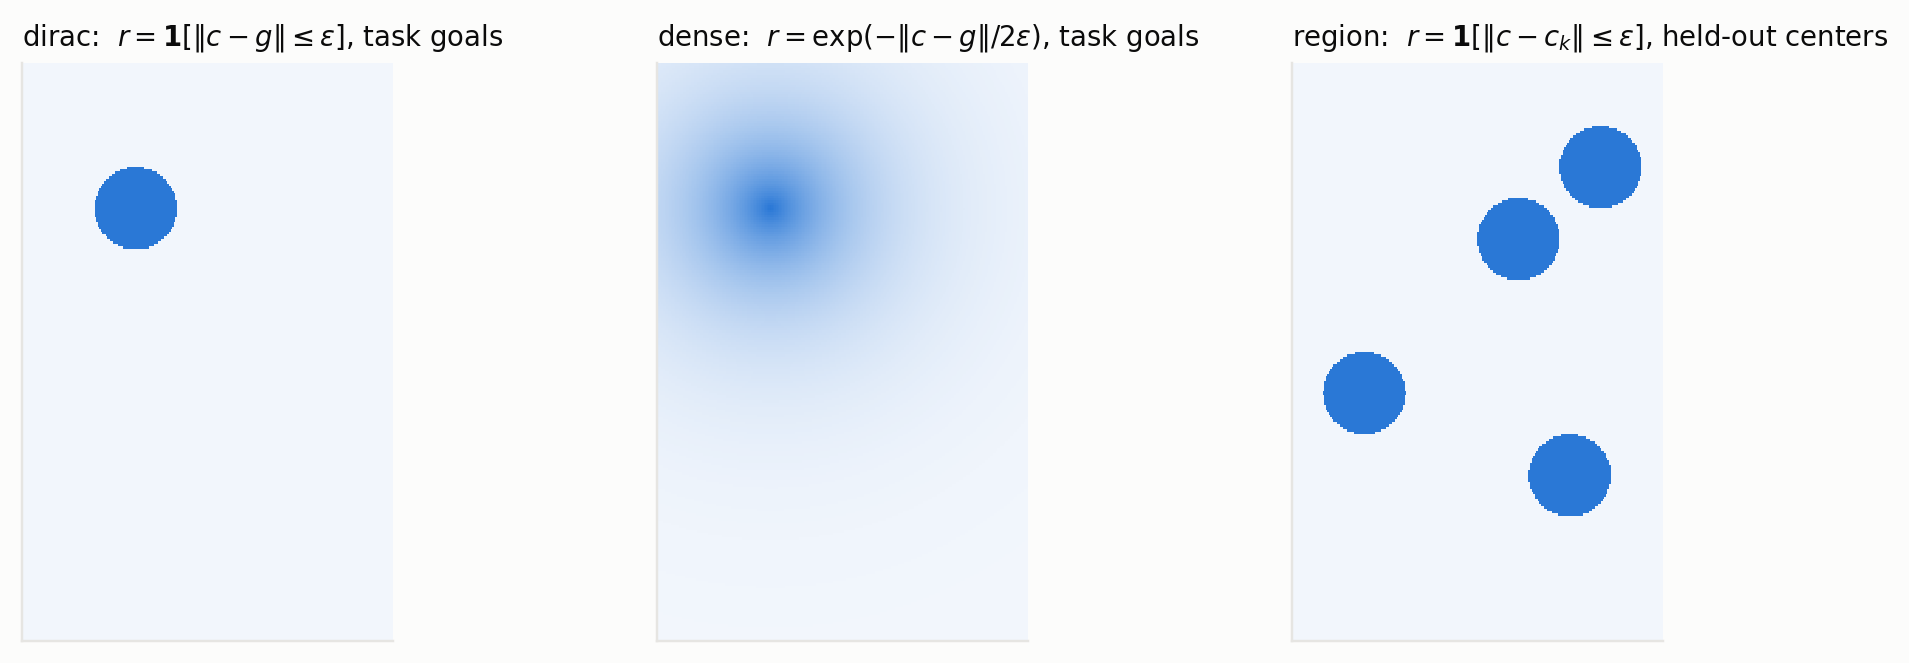
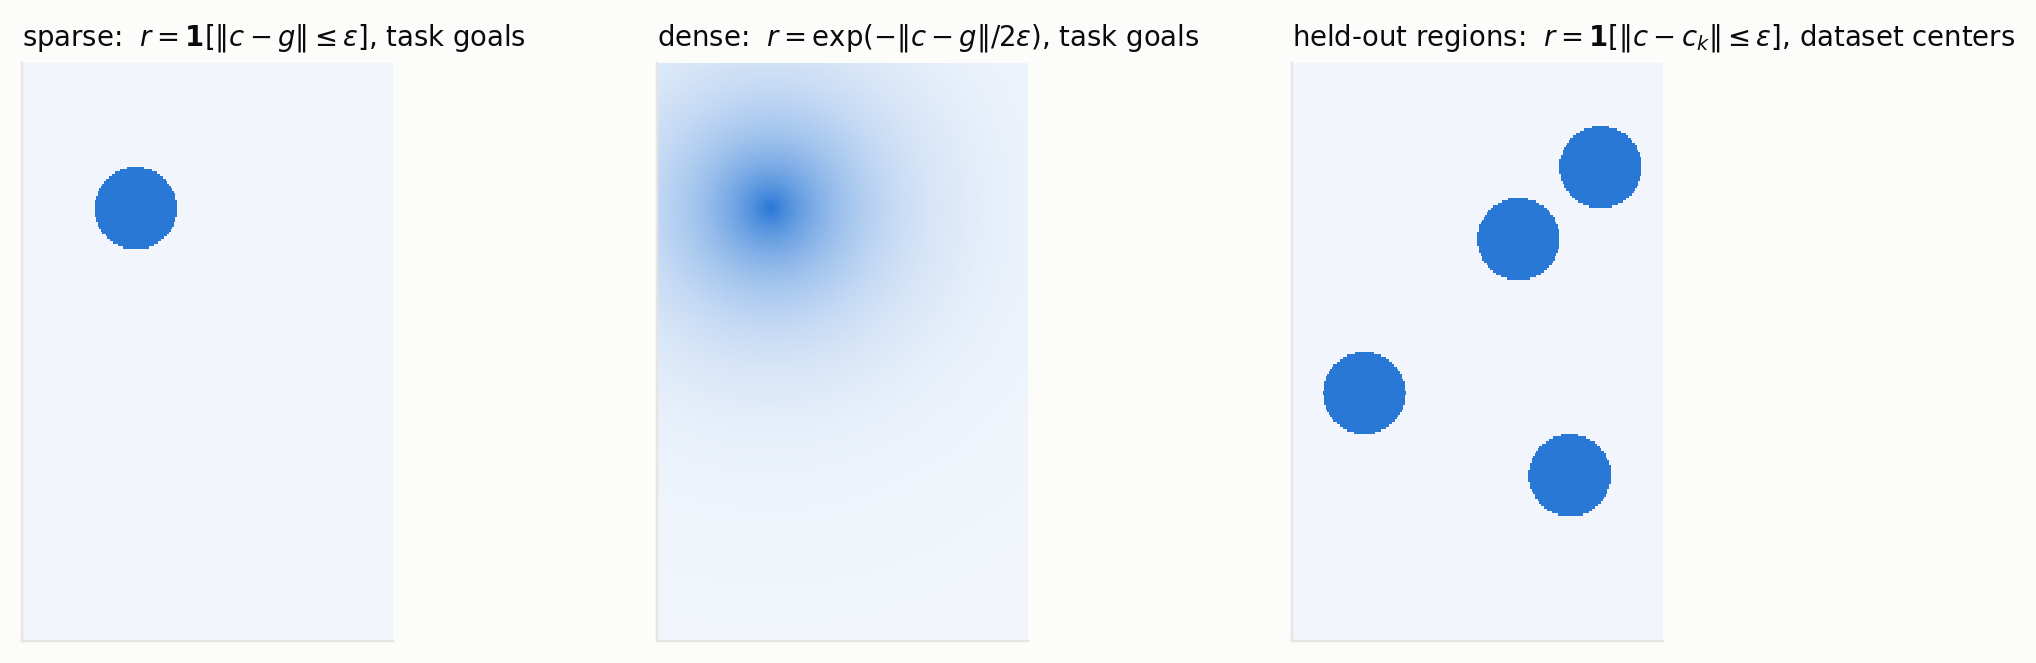
docs(density-fb): precision pass from collaborator feedback
Adopted: 'inflates the loss' -> 'repeatedly reinforces the same successor'
(the loss decreases; the critic scale inflates); 'low loss without learning
anything' -> 'reduce the objective without learning meaningful action
dependence'; 'nothing is lost relative to FB' -> fixed-point-preservation
statement with the hard/soft distinction explicit; method opener split
(normalize, then the object-coordinate marginal, then score-not-density);
one-unit-of-occupancy intuition before the CE target and the
(1-gamma)/gamma mass reading after; dwell-mass sentence expanded; actor
objective written out (eq actor, lambda_BC=3, centered normalizer) and
tied to the BC row; results rephrased as saturation/separation/
structured-split statements; readout section defines x_0 and the
kappa(x_0) correction (action independent), 'exactly linear' softened;
reward families renamed sparse/dense/held-out regions (internal names
noted) with the shaping-axis vs support-axis explanation; region
interpretation split into result + 'consistent with'; figure retitled.

diff --git a/PAPER/Multistep-FB/density-fb.tex b/PAPER/Multistep-FB/density-fb.tex
@@ -57,10 +57,10 @@ On \texttt{cube-double} each cube is stationary on $72\%$ of transitions; on \te
 \label{fig:playdata}
 \end{figure}
 
-This structure inflates the loss.
-A rest of length $L$ contributes $L$ near-identical positive terms, one per transition, while the reaching decision that produced it contributed once; at the median $L=44$ the objective weights ``the cube stays here'' about forty times more heavily than ``this action brought it here.''
-The linear observed-successor term in Equation~\ref{eq:fb-loss} turns this into unbounded scale growth, and the region-indicator form of the objective admits a large, well-scaled, action-independent constant $c^\star = \E_\rho[h]/(1-\gamma)$ that satisfies the Bellman equation on average.
-Either way, a critic reaches a low loss without learning anything about actions.
+This structure repeatedly reinforces the same successor.
+A rest of length $L$ contributes $L$ near-identical positive terms, one per transition, whereas the transition that brought the cube there appears only once; a $44$-step rest therefore gives the same configuration roughly forty opportunities to influence the objective.
+The linear observed-successor term in Equation~\ref{eq:fb-loss} turns this repetition into unbounded growth of the critic scale, and the region-indicator form of the objective admits a large, well-scaled, action-independent constant $c^\star = \E_\rho[h]/(1-\gamma)$ that satisfies the Bellman equation on average.
+Either way, the critic can reduce the objective without learning meaningful action dependence.
 
 The failure is the estimator, not the representation (Figure~\ref{fig:divergence}).
 With a backward representation frozen from a checkpoint supporting $0.97$ task success, the scalar FB loss grows the critic scale from $154$ to $5.4\times10^4$ within $65$k steps and success falls to $0.42$; orthonormalization bounds the scale but caps success at $0.225$.
@@ -89,8 +89,9 @@ Since $M(\mathcal X\mid s,a) = 1/(1-\gamma)$ for every $(s,a)$, the normalized m
 \label{eq:nu}
 \nu(\cdot\mid s,a,g) = (1-\gamma)\, M(\cdot\mid s,a,g)
 \end{equation}
-is a probability distribution over object coordinates $x=\phi_{\mathrm{obj}}(s)$ carrying the same information as $M$.
-We keep the FB two towers but use the dot product as a score rather than a density,
+is a probability distribution.
+In our setting we model this distribution over the goal-relevant object coordinates $x=\phi_{\mathrm{obj}}(s)$.
+The key change is that $F^\top B$ becomes a score rather than an unconstrained density: a softmax over sampled query configurations turns the scores into a normalized distribution,
 \begin{equation}
 \label{eq:density-softmax}
 f(s,a,g,u) = F(s,a,g)^\top B(\tilde u)/\tau,
@@ -100,6 +101,7 @@ w_j(s,a,g) = \frac{\exp f(s,a,g,u_j)}{\sum_k \exp f(s,a,g,u_k)},
 over a query set $U=\{u_j\}$ redrawn from the dataset marginal at every update (the batch's own next object configurations).
 Non-negativity and unit mass hold by construction, and the query count is a Monte-Carlo sample size, not a discretization: the checkpoint stores only $F$ and $B$.
 
+Each update asks one question: how should one unit of normalized future occupancy be distributed across candidate object configurations?
 The target mixes an immediate distribution around the observed successor with the bootstrapped prediction, and is fit by cross-entropy:
 \begin{equation}
 \label{eq:density-loss}
@@ -108,8 +110,9 @@ t = \sg \left[ (1-\gamma)\, \kappa(\cdot\mid x') + \gamma\, \bar p(s',a^+,g) \ri
 \mathcal L = - \E \Big[ \sum_j t_j \log w_j \Big],
 \qquad a^+ \sim \pi_{\bar\omega}(\cdot\mid s',g).
 \end{equation}
+The first term places $1-\gamma$ of the probability mass around the observed next configuration; the remaining $\gamma$ is inherited from the next state's predicted occupancy.
 Both terms lie on the simplex, so $t$ is itself a distribution.
-We evaluate two immediate targets:
+We evaluate two immediate targets, differing only in how the immediate mass is assigned:
 \begin{align}
 \text{soft:}\quad &\kappa_\epsilon(u_j\mid x') \propto \exp\!\left( -\tfrac12 \|(u_j-x')/\epsilon\|^2 \right),
 \label{eq:kappa-soft}\\
@@ -119,11 +122,11 @@ We evaluate two immediate targets:
 with $\epsilon$ the task tolerance; the hard target is well defined because $U$ contains each row's successor.
 
 This removes the inflation without deleting dwell mass.
-Rests can concentrate the predicted distribution but cannot grow the critic, because total mass is fixed; the action-independent solution becomes the uniform distribution, which cross-entropy penalizes against any concentrated target and which is visible in the prediction's entropy.
-The immediate target sets how dwell is credited: hard credits the realized successor exactly, soft spreads the same mass over its $\epsilon$-neighborhood.
+A long rest can make the predicted occupancy concentrate at that configuration, as it should, but it cannot increase the total amount of successor mass; the action-independent solution becomes the uniform distribution, which cross-entropy penalizes against any concentrated target and which is visible in the prediction's entropy.
+Hard and soft differ only in where the immediate mass goes: hard puts it on the realized successor, soft distributes it over the successor's $\epsilon$-neighborhood.
 
 \paragraph{Fixed point and contraction.}
-Nothing is lost relative to FB at the level of the Bellman operator.
+Normalization does not change the underlying successor fixed point: for the hard variant it only rescales the measure by $1-\gamma$, so the Bellman operator retains the same fixed-point information while constraining total mass; the soft variant additionally smooths the immediate successor over an $\epsilon$-neighborhood, so its fixed point is the correspondingly smoothed measure.
 Writing $\mathcal T\nu \,(\cdot\mid s,a) = (1-\gamma)\,\E[\kappa(\cdot\mid x_1)] + \gamma\,\E_{s_1,a^+}\left[ \nu(\cdot\mid s_1,a^+) \right]$ for the operator whose sample version is Equation~\ref{eq:density-loss}, for any two conditional measures
 \begin{equation}
 \sup_{s,a}\, \big\| \mathcal T\nu_1 - \mathcal T\nu_2 \big\|_{\mathrm{TV}}
@@ -133,7 +136,14 @@ since the immediate term cancels and the expectation is an average.
 $\mathcal T$ is therefore a $\gamma$-contraction in total variation with the ($\epsilon$-smoothed, for the soft variant) normalized successor measure as its unique fixed point, exactly as the scalar Bellman operator underlying FB is a $\gamma$-contraction with $M$ as its fixed point.
 What differs between the methods is only the projection under function approximation: FB projects in squared error onto the bilinear class, where the play-induced inflation of Section~\ref{sec:play} lives, while \DensityFB{} projects in cross-entropy onto softmax distributions, where scale is not a degree of freedom.
 
-For control, the actor maximizes the predicted mass near its goal, $q(s,a,g) = w(s,a,g)^\top \kappa(\cdot\mid g)$, computed at frozen measure parameters.
+For control, the actor maximizes the predicted mass near its goal, $q(s,a,g) = w(s,a,g)^\top \kappa(\cdot\mid g)$, computed at frozen measure parameters, inside the standard flow behavior-cloning objective:
+\begin{equation}
+\label{eq:actor}
+\mathcal L_\pi = \lambda_{\mathrm{BC}}\, \mathcal L_{\mathrm{BC\text{-}flow}} \;-\; \E\!\left[ \frac{ q(s, \pi(s,g), g) }{ s_q } \right],
+\qquad s_q = \E\big[\,|q|\,\big],\ \lambda_{\mathrm{BC}} = 3,
+\end{equation}
+where $\mathcal L_{\mathrm{BC\text{-}flow}}$ is the flow-matching behavior-cloning loss and $s_q$ is the usual magnitude normalizer (centered, since $q$ carries an action-independent level).
+The behavior-cloning row in Table~\ref{tab:main} trains the same actor with the $q$ term removed.
 
 % ======================================================================
 \section{Goal-conditioned results}
@@ -162,37 +172,40 @@ Goal-conditioned IQL & $0.879$ & $0.265$ & $0.26$--$0.287$ \\
 \label{tab:main}
 \end{table}
 
-Plain FB fails on every environment and collapses entirely beyond one object, consistent with Section~\ref{sec:play}.
-On \texttt{cube-single} both variants sit near the top of the range; the environment separates little above the $0.879$ of goal-conditioned IQL.
-\texttt{cube-double} is the discriminative environment: \DensityFB{} reaches $0.736$ from scratch against $0.265$ for goal-conditioned IQL, $0.000$ for plain FB, and a cloning floor of $0.019$.
-On \texttt{scene} both variants more than double goal-conditioned IQL, with the same per-task split on every seed: \texttt{open}, \texttt{unlock-and-lock} and \texttt{rearrange-medium} are solved ($0.88$--$1.0$) while \texttt{put-in-drawer} ($0.02$--$0.50$) and \texttt{rearrange-hard} ($0.0$--$0.04$) fail.
+Plain FB remains well below goal-conditioned IQL on \texttt{cube-single} and collapses on the multi-object environments, consistent with Section~\ref{sec:play}.
+\texttt{cube-single} is close to saturated: both \DensityFB{} variants reach about $0.92$ against $0.879$ for goal-conditioned IQL, so it provides limited separation between the strongest methods.
+\texttt{cube-double} provides the clearest separation: \DensityFB{} reaches $0.736$ from scratch against $0.265$ for goal-conditioned IQL, $0.000$ for plain FB, and a cloning floor of $0.019$.
+The \texttt{scene} result is structured rather than noisy: every seed of both variants solves \texttt{open}, \texttt{unlock-and-lock} and \texttt{rearrange-medium} ($0.88$--$1.0$), while \texttt{put-in-drawer} ($0.02$--$0.50$) and \texttt{rearrange-hard} ($0.0$--$0.04$) remain the bottlenecks.
 
 % ======================================================================
 \section{Reward evaluation}
 \label{sec:reward-transfer}
 
-The point of a successor measure is that one model evaluates any reward.
-For a test reward $r$ we draw a pool $U_P$ of $16{,}384$ object configurations from the dataset, evaluate $r$ on the pool, and read
+The reward-transfer experiment asks a different question from goal reaching: does the learned object represent only the five benchmark goals, or can it be integrated against a new reward?
+At test time we approximate the integral of $r$ against the learned successor distribution with a pool $U_P$ of $16{,}384$ object configurations drawn from the dataset: we evaluate $r$ on the pool once and take its expectation under the predicted occupancy $w$, which gives $w^\top r(U_P)/(1-\gamma)$.
+One correction improves this estimate.
+Here $x_0$ is the current state's object configuration (not necessarily in $U_P$), and $\kappa(\cdot\mid x_0)$ are its kernel weights over the pool: the finite pool and the kernel smooth the reward most exactly around $x_0$, where the predicted occupancy concentrates at small $t$, so we replace the smoothed estimate of the current configuration's reward, $\kappa(\cdot\mid x_0)^\top r(U_P)$, with its exact value $r(x_0)$:
 \begin{equation}
 \label{eq:density-readout}
-\widehat Q_r(s,a) = \frac{ r(x_0) + \left( w-\kappa(\cdot\mid x_0) \right)^\top r(U_P) }{ 1-\gamma },
+\widehat Q_r(s,a) = \frac{ r(x_0) + \left( w-\kappa(\cdot\mid x_0) \right)^\top r(U_P) }{ 1-\gamma }.
 \end{equation}
-which is exactly linear in $r$ and needs no retraining.
+The correction is action independent, so it changes calibration but never action ranking.
+The resulting readout is linear in $r$ and requires no retraining.
 To act, we retrieve the pool observation that maximizes $\widehat Q_r$ from the initial state, condition the goal-reaching actor on it, and roll out.
 
 \paragraph{Reward construction.}
-All test rewards are functions of the object coordinates only, take values in $[0,1]$, and are never seen during training (Figure~\ref{fig:rewardfams}).
-The \emph{dirac} family is the conjunctive tolerance indicator $r(x)=\ind{\text{every block of } x \text{ within } \epsilon \text{ of the center}}$ at the environment's five task-goal configurations: the sparsest signal, and the one the benchmark's own evaluation implies.
-The \emph{dense} family is $r(x)=\exp(-d(x,g)/2\epsilon)$ in tolerance-scaled coordinates at the same centers: the same tasks with a shaped signal, isolating whether the readout needs shaping.
-The \emph{region} family keeps the dirac form but moves the centers off the task goals: four centers drawn by hindsight from the dataset (a configuration visited later within a random episode, kept only if at least five relabeled samples fall inside its region), so each is reachable and data-supported but held out.
-The three families separate the two ways a measure readout can fail: dense against dirac varies the shaping at fixed centers, and region against dirac varies the centers at fixed form, probing the measure away from the five configurations the actor was ever evaluated on.
+We test three reward families, all defined only from object coordinates, valued in $[0,1]$, and never observed during training (Figure~\ref{fig:rewardfams}; internal names \texttt{dirac}/\texttt{dense}/\texttt{region}):
+\emph{sparse}, the benchmark's tolerance indicator $\ind{\|x-g\|\le\epsilon}$ (conjunctive over object blocks) at the five task goals;
+\emph{dense}, the same centers with distance-based shaping $\exp(-d(x,g)/2\epsilon)$ in tolerance-scaled coordinates;
+and \emph{held-out regions}, the same sparse indicator centered at reachable dataset configurations that are not benchmark goals (drawn by hindsight from within episodes, kept only with at least five relabeled samples inside the region).
+Dense versus sparse tests sensitivity to reward shaping while keeping the goals fixed; sparse versus held-out regions keeps the reward form fixed while changing where in object space the reward sits.
 $25$ episodes per task, three seeds.
 The fixed-partition row is the same objective with the continuous query set replaced by $256$ fixed prototypes, the discretized ablation.
 
 \begin{figure}[t]
 \centering
 \includegraphics[width=0.95\textwidth]{figures/reward_families.png}
-\caption{The three held-out reward families on the cube workspace (cube-position plane, $\epsilon$-balls to scale). Dirac and dense share task-style centers and differ in shaping; region keeps the dirac form at hindsight-drawn dataset centers.}
+\caption{The three test reward families on the cube workspace (cube-position plane, $\epsilon$-balls to scale). Sparse and dense share task-style centers and differ in shaping; held-out regions keep the sparse form at hindsight-drawn dataset centers.}
 \label{fig:rewardfams}
 \end{figure}
 
@@ -201,7 +214,7 @@ The fixed-partition row is the same objective with the continuous query set repl
 \small
 \begin{tabular}{lccc}
 \toprule
-Method & dirac & dense & region \\
+Method & sparse & dense & held-out regions \\
 \midrule
 \DensityFB{} (soft) & $0.816 \pm 0.269$ & $0.725 \pm 0.301$ & $0.293 \pm 0.052$ \\
 \DensityFB{} (hard) & $\mathbf{0.888 \pm 0.091}$ & $\mathbf{0.912 \pm 0.087}$ & $\mathbf{0.647 \pm 0.301}$ \\
@@ -212,8 +225,9 @@ Fixed partition ($K{=}256$) & $0.725 \pm 0.121$ & $0.723 \pm 0.298$ & $0.133 \pm
 \label{tab:zeroshot}
 \end{table}
 
-The continuous support pays off where a finite support must interpolate: region-family transfer goes $0.133$ (partition) to $0.293$ (soft) to $0.647$ (hard).
-The hard target improves every family while leaving goal reaching unchanged (Table~\ref{tab:main}), so the soft kernel's smoothing was costing transfer rather than protecting it.
+The largest difference appears on rewards centered away from the benchmark goals: held-out-region transfer rises from $0.133$ with the fixed partition to $0.293$ with soft \DensityFB{} and $0.647$ with the hard variant.
+This is consistent with continuous query representations helping most when the reward sits between or away from fixed prototypes.
+Since hard and soft perform almost identically on goal reaching (Table~\ref{tab:main}) but separate sharply on reward transfer, the smoothing appears unnecessary for control and harmful when the learned measure is queried with new rewards.
 
 % ======================================================================
 \section{Related work}

diff --git a/PAPER/Multistep-FB/figures/make_reward_families.py b/PAPER/Multistep-FB/figures/make_reward_families.py
@@ -29,11 +29,11 @@ def dist(c):
 
 fig, axes = plt.subplots(1, 3, figsize=(9.4, 3.1))
 panels = [
-    ("dirac:  $r=\\mathbf{1}[\\|c-g\\|\\leq\\epsilon]$, task goals",
+    ("sparse:  $r=\\mathbf{1}[\\|c-g\\|\\leq\\epsilon]$, task goals",
      (dist(C) <= EPS).astype(float)),
     ("dense:  $r=\\exp(-\\|c-g\\|/2\\epsilon)$, task goals",
      np.exp(-dist(C) / (2 * EPS))),
-    ("region:  $r=\\mathbf{1}[\\|c-c_k\\|\\leq\\epsilon]$, held-out centers",
+    ("held-out regions:  $r=\\mathbf{1}[\\|c-c_k\\|\\leq\\epsilon]$, dataset centers",
      np.max([(dist(h) <= EPS) for h in H], axis=0).astype(float)),
 ]
 for ax, (title, Z) in zip(axes.flat, panels):
